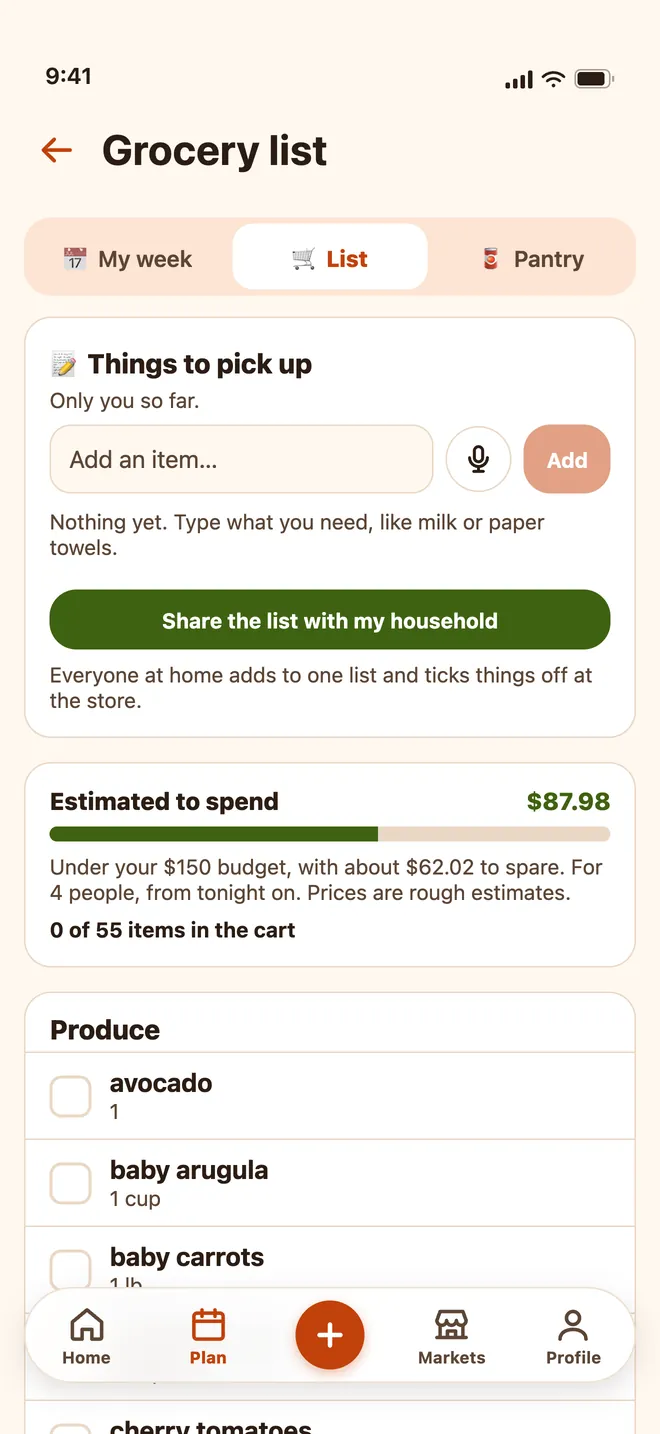
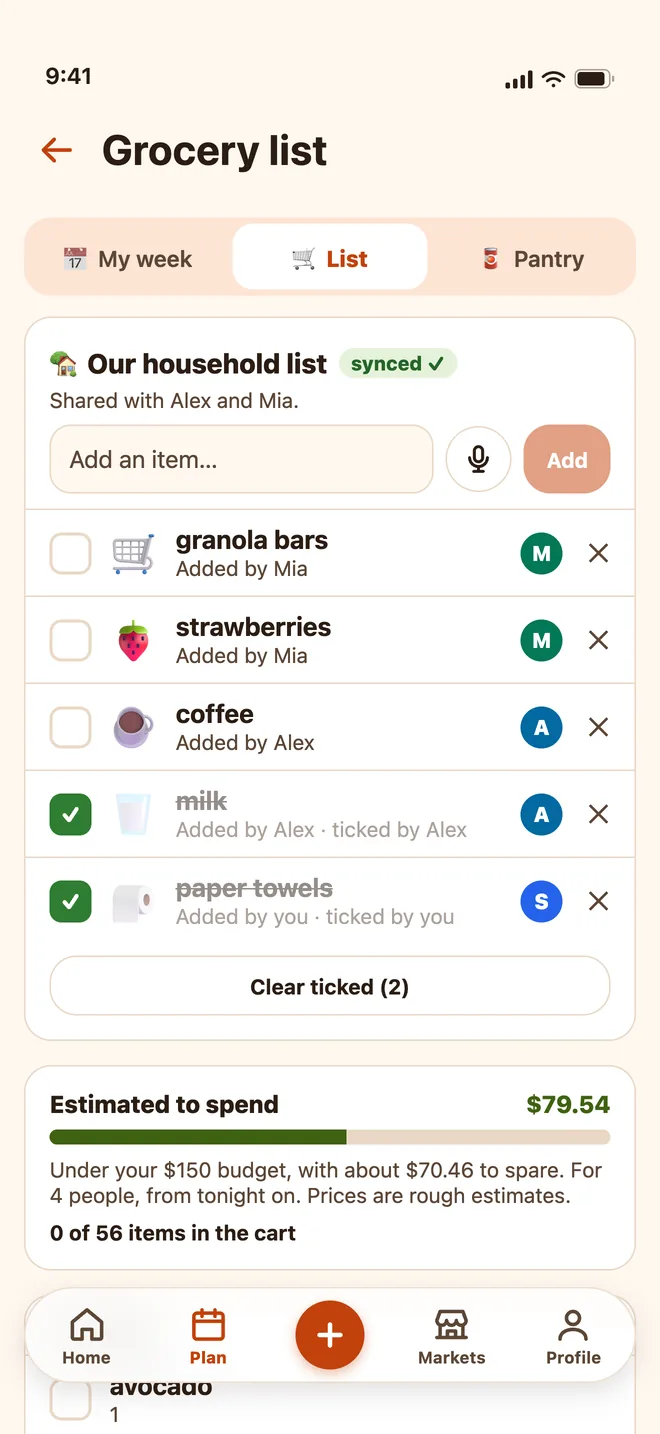
Website: new app screenshots, hero phone fits on phones, Potsy any color
Fresh store-build screens (planned week with per-day meals, shared household list, household
allergies, cook timer, potluck, scanner, recipe, markets, Ask Potsy), plus two new rail cards:
a recipe shared in a family circle and Dress Potsy. Profile card dropped (it was an empty profile).
On phone widths the hero phones are sized off the screen width, so the front one no longer runs
past the right edge. Potsy band: any color and a big free wardrobe. Potluck card ends with
"Made with love. Meant to be shared."

Claude-Session: https://claude.ai/code/session_01PTRcXb3KwXkFT3FZggBnK5

diff --git a/index.html b/index.html
@@ -15,7 +15,7 @@
   <link rel="preconnect" href="https://fonts.googleapis.com">
   <link rel="preconnect" href="https://fonts.gstatic.com" crossorigin>
   <link href="https://fonts.googleapis.com/css2?family=Fraunces:opsz,wght@9..144,600;9..144,700&family=Inter:wght@400;600;700&display=swap" rel="stylesheet">
-  <link rel="stylesheet" href="/style.css?v=4">
+  <link rel="stylesheet" href="/style.css?v=5">
 </head>
 <body>
   <header class="top">
@@ -40,8 +40,8 @@
           </div>
         </div>
         <div class="hero-phones" aria-hidden="true">
-          <div class="phone back"><img src="/img/screens/plan.webp?v=4" alt="" width="660" height="1434"></div>
-          <div class="phone front"><img src="/img/screens/home.webp?v=4" alt="" width="660" height="1434" fetchpriority="high"></div>
+          <div class="phone back"><img src="/img/screens/plan.webp?v=5" alt="" width="660" height="1434"></div>
+          <div class="phone front"><img src="/img/screens/home.webp?v=5" alt="" width="660" height="1434" fetchpriority="high"></div>
           <img class="potsy" src="/img/potsy-waving.svg" alt="">
         </div>
       </div>
@@ -61,7 +61,7 @@
           <div class="feature"><div class="icon">🍱</div><h3>Meal prep</h3><p>Cook once and eat well for days. Pick how many days and which meals, and Potsy picks recipes everyone at your table can eat.</p></div>
           <div class="feature"><div class="icon">📷</div><h3>Scan it, know how long it keeps</h3><p>Scan a barcode and Potsy tells you what it is, how long it lasts in the pantry or fridge, and which recipes use it.</p></div>
           <div class="feature"><div class="icon">⏱</div><h3>Steps anyone can follow</h3><p>Every recipe is written one clear step at a time, with timers built in and the step read aloud, so you're never scrolling with messy hands.</p></div>
-          <div class="feature"><div class="icon">🦃</div><h3>Groups and potlucks</h3><p>Plan Thanksgiving or a birthday. Potsy starts the menu, everyone joins with a code and picks what they're bringing.</p></div>
+          <div class="feature"><div class="icon">🦃</div><h3>Groups and potlucks</h3><p>Plan Thanksgiving or a birthday. Potsy starts the menu, everyone joins with a code and picks what they're bringing. Made with love. Meant to be shared.</p></div>
           <div class="feature"><div class="icon">🎃</div><h3>Seasons and holidays</h3><p>Halloween, Thanksgiving, Christmas and more: seasonal favorites on your home screen, and Potsy dresses for the occasion.</p></div>
           <div class="feature"><div class="icon">🧺</div><h3>Farmers markets nearby</h3><p>Find the markets around you on a real map, with days, hours and directions.</p></div>
           <div class="feature"><div class="icon">📸</div><h3>Share what you cooked</h3><p>Post tonight's dinner or a short cooking video, follow other home cooks, and save the dishes you want to make.</p></div>
@@ -77,17 +77,18 @@
           <p>Real screens from the app. Swipe through.</p>
         </div>
         <div class="rail">
-          <figure><div class="phone"><img src="/img/screens/home.webp?v=4" alt="Home screen with tonight's dinner, lemon garlic shrimp pasta" width="660" height="1434" loading="lazy" decoding="async"></div><figcaption>Tonight's dinner<span>Cook it or swap it</span></figcaption></figure>
-          <figure><div class="phone"><img src="/img/screens/potsy.webp?v=4" alt="Asking Potsy for chicken dinner ideas" width="660" height="1434" loading="lazy" decoding="async"></div><figcaption>Ask Potsy<span>Dinner ideas in seconds</span></figcaption></figure>
-          <figure><div class="phone"><img src="/img/screens/plan.webp?v=4" alt="A week of planned dinners, day by day" width="660" height="1434" loading="lazy" decoding="async"></div><figcaption>Your week<span>Planned in one tap</span></figcaption></figure>
-          <figure><div class="phone"><img src="/img/screens/list.webp?v=4" alt="Grocery list sorted by aisle with the estimated spend" width="660" height="1434" loading="lazy" decoding="async"></div><figcaption>Grocery list<span>Sorted by aisle, on budget</span></figcaption></figure>
-          <figure><div class="phone"><img src="/img/screens/recipe.webp?v=4" alt="Lemon garlic shrimp pasta recipe page" width="660" height="1434" loading="lazy" decoding="async"></div><figcaption>500+ recipes<span>Cost per serving, every one</span></figcaption></figure>
-          <figure><div class="phone"><img src="/img/screens/cook.webp?v=4" alt="Cook mode showing one step with a timer button" width="660" height="1434" loading="lazy" decoding="async"></div><figcaption>Cook mode<span>One clear step at a time</span></figcaption></figure>
-          <figure><div class="phone"><img src="/img/screens/allergy.webp?v=4" alt="A recipe flagged as not safe because of a shellfish allergy" width="660" height="1434" loading="lazy" decoding="async"></div><figcaption>Allergy safety<span>Flagged before it's on your plate</span></figcaption></figure>
-          <figure><div class="phone"><img src="/img/screens/potluck.webp?v=4" alt="Thanksgiving potluck menu with who is bringing what" width="660" height="1434" loading="lazy" decoding="async"></div><figcaption>Potlucks<span>Who's bringing what</span></figcaption></figure>
-          <figure><div class="phone"><img src="/img/screens/markets.webp?v=4" alt="Farmers market map near Austin" width="660" height="1434" loading="lazy" decoding="async"></div><figcaption>Farmers markets<span>On a real map, near you</span></figcaption></figure>
-          <figure><div class="phone"><img src="/img/screens/scanner.webp?v=4" alt="Barcode scan result for ketchup showing how long it keeps" width="660" height="1434" loading="lazy" decoding="async"></div><figcaption>Scan a barcode<span>How long it keeps</span></figcaption></figure>
-          <figure><div class="phone"><img src="/img/screens/profile.webp?v=4" alt="A home cook's profile with their posts" width="660" height="1434" loading="lazy" decoding="async"></div><figcaption>Your profile<span>Share what you cooked</span></figcaption></figure>
+          <figure><div class="phone"><img src="/img/screens/home.webp?v=5" alt="Home screen with tonight's dinner, lemon garlic shrimp pasta" width="660" height="1434" loading="lazy" decoding="async"></div><figcaption>Tonight's dinner<span>Cook it or swap it</span></figcaption></figure>
+          <figure><div class="phone"><img src="/img/screens/potsy.webp?v=5" alt="Asking Potsy for chicken dinner ideas" width="660" height="1434" loading="lazy" decoding="async"></div><figcaption>Ask Potsy<span>Dinner ideas in seconds</span></figcaption></figure>
+          <figure><div class="phone"><img src="/img/screens/plan.webp?v=5" alt="A planned week: dinner picked for each day, tonight's dinner below" width="660" height="1434" loading="lazy" decoding="async"></div><figcaption>Your week<span>Planned in one tap</span></figcaption></figure>
+          <figure><div class="phone"><img src="/img/screens/list.webp?v=5" alt="A household grocery list shared with Alex and Mia, with ticked items" width="660" height="1434" loading="lazy" decoding="async"></div><figcaption>One grocery list<span>The whole house adds and ticks</span></figcaption></figure>
+          <figure><div class="phone"><img src="/img/screens/recipe.webp?v=5" alt="Lemon garlic shrimp pasta recipe page" width="660" height="1434" loading="lazy" decoding="async"></div><figcaption>500+ recipes<span>Cost per serving, every one</span></figcaption></figure>
+          <figure><div class="phone"><img src="/img/screens/cook.webp?v=5" alt="Cook mode showing one step with a timer running" width="660" height="1434" loading="lazy" decoding="async"></div><figcaption>Cook mode<span>One clear step at a time</span></figcaption></figure>
+          <figure><div class="phone"><img src="/img/screens/allergy.webp?v=5" alt="My household: everyone at the table with their allergies, and recipes with them hidden" width="660" height="1434" loading="lazy" decoding="async"></div><figcaption>Every allergy<span>Planned around everyone at your table</span></figcaption></figure>
+          <figure><div class="phone"><img src="/img/screens/potluck.webp?v=5" alt="Thanksgiving potluck menu with who is bringing what" width="660" height="1434" loading="lazy" decoding="async"></div><figcaption>Potlucks<span>Who's bringing what</span></figcaption></figure>
+          <figure><div class="phone"><img src="/img/screens/markets.webp?v=5" alt="Farmers market map near Austin" width="660" height="1434" loading="lazy" decoding="async"></div><figcaption>Farmers markets<span>On a real map, near you</span></figcaption></figure>
+          <figure><div class="phone"><img src="/img/screens/scanner.webp?v=5" alt="Barcode scan result for ketchup showing how long it keeps" width="660" height="1434" loading="lazy" decoding="async"></div><figcaption>Scan a barcode<span>How long it keeps</span></figcaption></figure>
+          <figure><div class="phone"><img src="/img/screens/share.webp?v=5" alt="A recipe shared in a family group chat" width="660" height="1434" loading="lazy" decoding="async"></div><figcaption>Family circles<span>Share recipes with the people you love</span></figcaption></figure>
+          <figure><div class="phone"><img src="/img/screens/dress.webp?v=5" alt="Dress Potsy: Potsy in teal with a crown, and a wardrobe of hats" width="660" height="1434" loading="lazy" decoding="async"></div><figcaption>Dress Potsy<span>Any color, big free wardrobe</span></figcaption></figure>
         </div>
       </div>
     </section>
@@ -98,7 +99,7 @@
         <div>
           <h2>Meet Potsy, your kitchen buddy.</h2>
           <p>Potsy is your chef friend in the app. Ask him for dinner ideas, what to make with what's in your fridge, or how anything works. He knows your table, so his answers fit your family, allergies and all.</p>
-          <p>And he's yours: dress him up with hats, colors and outfits you unlock as you cook. He even dresses up for the holidays.</p>
+          <p>And he's yours: paint him any color you like and dress him from a big free wardrobe of hats, eyes, aprons and little buddies. He even dresses up for the holidays.</p>
         </div>
       </div>
     </section>

diff --git a/style.css b/style.css
@@ -132,11 +132,13 @@ footer a { color: var(--ink-soft); }
   .top nav .hide-sm { display: none; }
   .features { grid-template-columns: 1fr; }
   section { padding: 56px 0; }
-  .hero-phones { min-height: 400px; }
-  .hero-phones .phone { width: 180px; border-radius: 30px; padding: 7px; }
+  /* Both phones sized off the screen width, so the front one never runs past the right edge. */
+  .hero { overflow-x: clip; padding-bottom: 40px; }
+  .hero-phones { min-height: min(400px, 104vw); }
+  .hero-phones .phone { width: min(170px, 42vw); border-radius: 30px; padding: 7px; }
   .hero-phones .phone img { border-radius: 24px; }
-  .hero-phones .phone.back { transform: translateX(calc(-50% - 12px)) rotate(-6deg) scale(.9); }
-  .hero-phones .phone.front { transform: translateX(calc(-50% + 90px)) rotate(4deg); }
-  .hero-phones .potsy { width: 64px; left: 2px; bottom: 0; }
+  .hero-phones .phone.back { transform: translateX(calc(-50% - min(24px, 6vw))) rotate(-6deg) scale(.9); }
+  .hero-phones .phone.front { transform: translateX(calc(-50% + min(80px, 19vw))) rotate(4deg); }
+  .hero-phones .potsy { width: min(64px, 16vw); left: 0; bottom: 56px; z-index: 2; }
   .rail figure { flex-basis: 210px; }
 }
